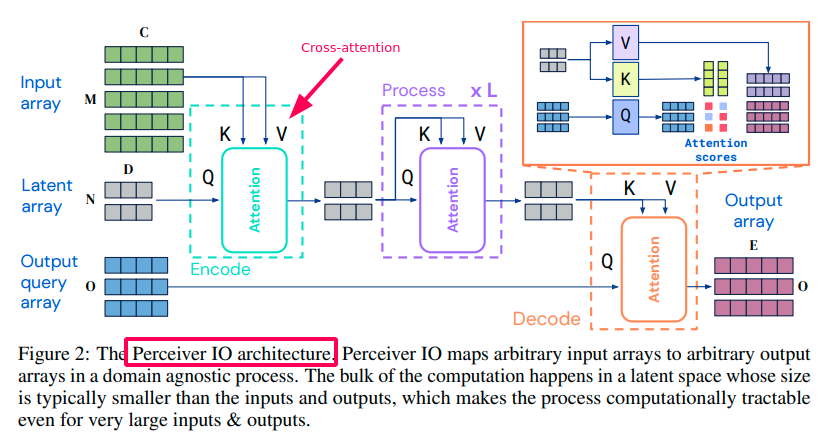
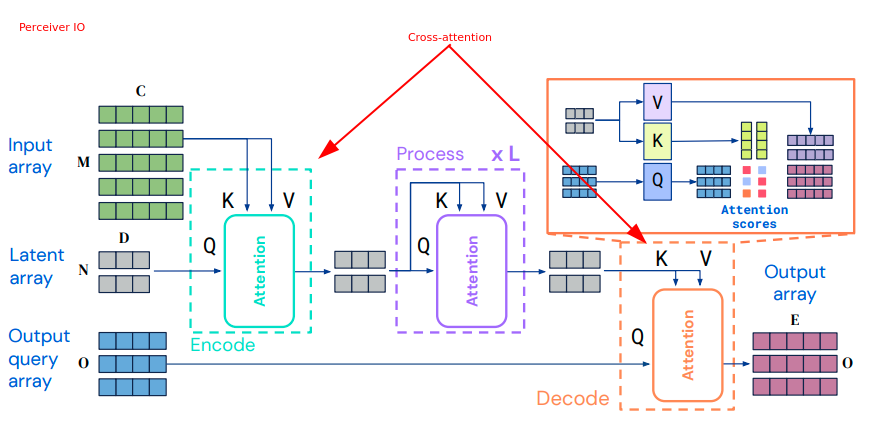
cross attention images

diff --git a/_posts/2021-12-28-cross-attention-in-transformer-architecture.md b/_posts/2021-12-28-cross-attention-in-transformer-architecture.md
@@ -20,6 +20,8 @@ Cross attention is:
 - the other sequence then produces key and value input
 
 ## Cross-attention vs Self-attention
+![cross-attention perceiver io detail](/images/cross-attention-detail-perceiver-io.png)
+
 Except for inputs, cross-attention calculation is the same as [self-attention](/ml/transformers-self-attention-mechanism-simplified) but the calculation inputs are different.
 Cross-attention combines asymmetrically two separate embedding sequences of same dimension, in contrast self-attention input is a single embedding sequence.
 One of the sequences serves as a query input, while the other as a key and value inputs.
@@ -51,6 +53,9 @@ The next token is added to the output sequence and we repeat the decoding proces
 ## Cross-Attention Examples
 
 ### Cross-Attention in Perceiver IO
+
+![Perceiver IO architecture](/images/cross-attention-perceiver-io.png)
+
 [Perceiver IO](https://arxiv.org/pdf/2107.14795.pdf) is a general-purpose cross-domain architecture that can handle variety of inputs and outputs uses extensively cross-attention for:
 - merging very long input sequences (e.g. images, audio) into the low dimensional latent embeddings sequence
 - merging "output query" or "command" to decode the output value e.g. we can the model ask about a masked word
@@ -58,8 +63,6 @@ The next token is added to the output sequence and we repeat the decoding proces
 Advantage of this is that in general you can work with very long sequences.
 Architecture [Hierarchical Perceiver](https://arxiv.org/pdf/2202.10890.pdf) has ability to process even longer sequences by splitting into subsequences and then merging them.
 Hierarchical Perceiver also learns the positional encodings with a separate training step with a reconstruction loss.
-
-![Perceiver IO architecture](/images/cross-attention-perceiver-io.png)
 
 
 ### Cross-Attention in SelfDoc
